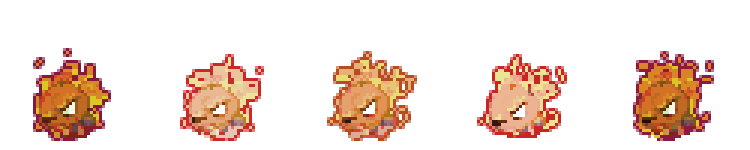
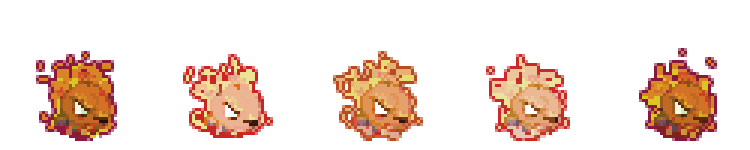
Update Entities
现在怪物会一直面对玩家。

diff --git a/Assets/Sources/Behaviors/Actions/ReverseSide.cs b/Assets/Sources/Behaviors/Actions/ReverseSide.cs
@@ -1,0 +1,59 @@
+using System.Collections;
+using System.Collections.Generic;
+using BehaviorDesigner.Runtime;
+using BehaviorDesigner.Runtime.Tasks;
+using NotionWorld.Entities;
+using UnityEngine;
+using NotionWorld.Actions;
+using NotionWorld.Capabilities;
+using NotionWorld.Modifiers;
+
+namespace NotionWorld.Behaviors
+{
+    [TaskCategory("NotionWorld")]
+    public sealed class ReverseSide : Action
+    {
+        [BehaviorDesigner.Runtime.Tasks.Tooltip("Target face to.")]
+        public SharedGameObject targetGameObject;
+
+        [BehaviorDesigner.Runtime.Tasks.Tooltip("Animator want to reverse.")]
+        public SharedGameObject animatorObject;
+
+        private float coldDownTimer;
+
+        private float lastSide;
+
+        public override void OnAwake()
+        {
+            lastSide = targetGameObject.Value.transform.position.x - animatorObject.Value.transform.position.x;
+            lastSide = Row(-1, 0, lastSide);
+        }
+
+        public override TaskStatus OnUpdate()
+        {
+            float side = targetGameObject.Value.transform.position.x - animatorObject.Value.transform.position.x;
+            side = Row(-1, 0, side);
+            if (side != lastSide)
+            {
+                lastSide = side;
+                Vector3 euler = animatorObject.Value.transform.rotation.eulerAngles;
+                euler.y = side * 180;
+                animatorObject.Value.transform.rotation = Quaternion.Euler(euler);
+            }
+            return TaskStatus.Success;
+        }
+
+        private float Row(float min, float max, float value)
+        {
+            if (value < (min + max) / 2)
+            {
+                return min;
+            }
+            else
+            {
+                return max;
+            }
+        }
+    }
+
+}

diff --git a/Assets/EasyTouchBundle/EasyTouch/Plugins/Editor/EasyTouchWelcomeScreen.cs b/Assets/EasyTouchBundle/EasyTouch/Plugins/Editor/EasyTouchWelcomeScreen.cs
@@ -73,8 +73,8 @@ public class EasyTouchWelcomeScreen : EditorWindow {
 	}
 
 	static EasyTouchWelcomeScreen(){
-		EditorApplication.playmodeStateChanged -= OnPlayModeChanged;
-		EditorApplication.playmodeStateChanged += OnPlayModeChanged;
+		EditorApplication.playModeStateChanged -= OnPlayModeChanged;
+		EditorApplication.playModeStateChanged += OnPlayModeChanged;
 		
 		showAtStartup = EditorPrefs.GetBool(PREFSHOWATSTARTUP, true);
 		
@@ -89,9 +89,10 @@ public class EasyTouchWelcomeScreen : EditorWindow {
 		EditorApplication.update -= OpenAtStartup;
 	}
 
-	static void OnPlayModeChanged(){
+	static void OnPlayModeChanged(PlayModeStateChange state)
+	{
 		EditorApplication.update -= OpenAtStartup;
-		EditorApplication.playmodeStateChanged -= OnPlayModeChanged;
+		EditorApplication.playModeStateChanged -= OnPlayModeChanged;
 	}
 	
 	void OnEnable(){

diff --git a/Assets/Sources/Modifiers/RotationModifier.cs b/Assets/Sources/Modifiers/RotationModifier.cs
@@ -1,0 +1,29 @@
+using System.Collections;
+using System.Collections.Generic;
+using UnityEngine;
+using NotionWorld.Capabilities;
+
+namespace NotionWorld.Modifiers
+{
+    public sealed class RotationModifier : Modifier
+    {
+        public Vector3 DeltaRotation
+        {
+            get; set;
+        }
+
+        public Transform Transform
+        {
+            get; set;
+        }
+
+        public override void TakeEffect()
+        {
+            if(Transform != null)
+            {
+                Transform.rotation *= Quaternion.Euler(DeltaRotation);
+            }
+        }
+    }
+
+}
